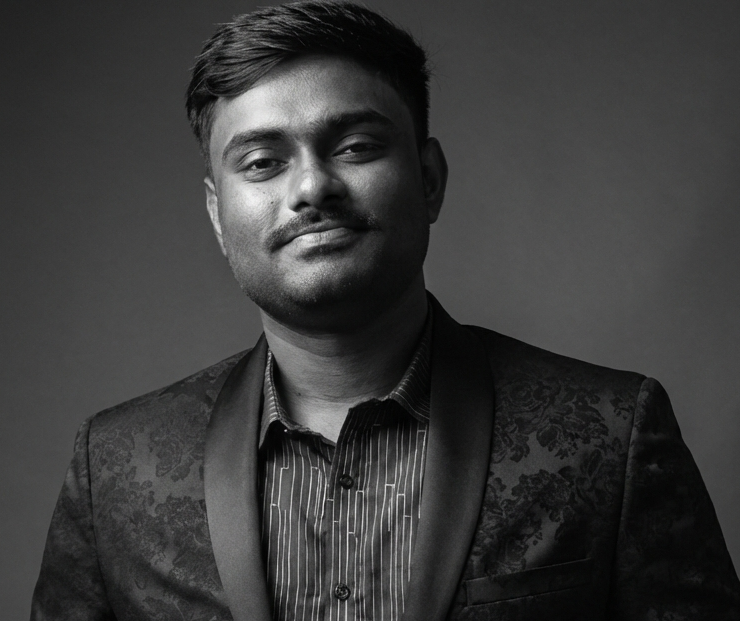
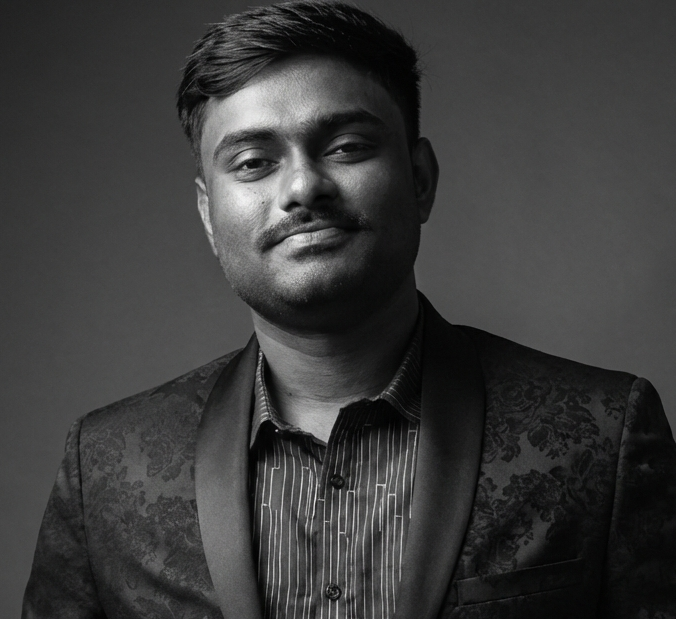
updated styles

diff --git a/index.html b/index.html
@@ -17,17 +17,17 @@
         }
 
         :root {
-            --primary-text: #1d1d1f;
-            --secondary-text: #6e6e73;
-            --accent: #0071e3;
-            --accent-hover: #0077ed;
-            --bg-primary: #ffffff;
-            --bg-secondary: #f5f5f7;
-            --bg-tertiary: #fbfbfd;
-            --border: #d2d2d7;
-            --shadow-sm: 0 2px 8px rgba(0, 0, 0, 0.04);
-            --shadow-md: 0 4px 16px rgba(0, 0, 0, 0.08);
-            --shadow-lg: 0 12px 48px rgba(0, 0, 0, 0.12);
+            --primary-text: #121212;
+            --secondary-text: #5a5a5f;
+            --accent: #e0242a;
+            --accent-hover: #ff3b30;
+            --bg-primary: #f7f8fb;
+            --bg-secondary: #f2f3f7;
+            --bg-tertiary: #eef1f6;
+            --border: #e7e9ee;
+            --shadow-sm: 0 4px 16px rgba(0, 0, 0, 0.04);
+            --shadow-md: 0 10px 30px rgba(0, 0, 0, 0.08);
+            --shadow-lg: 0 24px 72px rgba(0, 0, 0, 0.12);
         }
 
         html {
@@ -38,7 +38,8 @@
 
         body {
             font-family: -apple-system, BlinkMacSystemFont, 'Inter', 'SF Pro Display', 'Segoe UI', Roboto, sans-serif;
-            background: linear-gradient(135deg, #eaf1ff 0%, #f8fbff 50%, #eef2f8 100%);
+            background: radial-gradient(120% 120% at 20% 10%, #ffffff, #f3f5fa 38%, #ecf0f7 52%, #e7ebf4 70%),
+                        radial-gradient(90% 90% at 80% 20%, rgba(224, 36, 42, 0.08), rgba(255, 255, 255, 0));
             color: var(--primary-text);
             line-height: 1.6;
             overflow-x: hidden;
@@ -49,24 +50,24 @@
         body::after {
             content: '';
             position: fixed;
-            width: 720px;
-            height: 720px;
+            width: 520px;
+            height: 520px;
             border-radius: 50%;
-            filter: blur(140px);
-            opacity: 0.35;
+            filter: blur(120px);
+            opacity: 0.22;
             z-index: -1;
         }
 
         body::before {
-            background: radial-gradient(circle at 30% 30%, rgba(0, 113, 227, 0.35), rgba(255, 255, 255, 0));
-            top: -180px;
-            left: -160px;
+            background: radial-gradient(circle at 30% 30%, rgba(224, 36, 42, 0.35), rgba(255, 255, 255, 0));
+            top: -120px;
+            left: -140px;
         }
 
         body::after {
-            background: radial-gradient(circle at 70% 70%, rgba(0, 119, 237, 0.28), rgba(255, 255, 255, 0));
-            bottom: -240px;
-            right: -120px;
+            background: radial-gradient(circle at 70% 70%, rgba(15, 23, 42, 0.28), rgba(255, 255, 255, 0));
+            bottom: -160px;
+            right: -100px;
         }
 
         /* Header */
@@ -152,12 +153,12 @@
             margin: 0 auto;
             padding: 8rem 2rem 6rem;
             text-align: center;
-            background: rgba(255, 255, 255, 0.72);
-            border: 1px solid rgba(255, 255, 255, 0.45);
-            border-radius: 28px;
-            box-shadow: 0 20px 60px rgba(15, 23, 42, 0.12);
-            backdrop-filter: saturate(180%) blur(18px);
-            -webkit-backdrop-filter: saturate(180%) blur(18px);
+            background: linear-gradient(145deg, rgba(255, 255, 255, 0.9), rgba(255, 255, 255, 0.76));
+            border: 1px solid rgba(231, 233, 238, 0.9);
+            border-radius: 26px;
+            box-shadow: 0 16px 48px rgba(15, 23, 42, 0.10);
+            backdrop-filter: saturate(180%) blur(12px);
+            -webkit-backdrop-filter: saturate(180%) blur(12px);
         }
 
         .hero h1 {
@@ -316,14 +317,14 @@
         }
 
         .card {
-            background: rgba(255, 255, 255, 0.72);
+            background: linear-gradient(160deg, rgba(255, 255, 255, 0.92), rgba(250, 250, 252, 0.82));
             border-radius: 18px;
             padding: 2.5rem;
-            box-shadow: 0 18px 48px rgba(15, 23, 42, 0.08);
+            box-shadow: 0 14px 40px rgba(15, 23, 42, 0.10);
             transition: all 0.3s cubic-bezier(0.4, 0, 0.2, 1);
-            border: 1px solid rgba(255, 255, 255, 0.45);
-            backdrop-filter: saturate(180%) blur(18px);
-            -webkit-backdrop-filter: saturate(180%) blur(18px);
+            border: 1px solid rgba(231, 233, 238, 0.9);
+            backdrop-filter: saturate(160%) blur(10px);
+            -webkit-backdrop-filter: saturate(160%) blur(10px);
         }
 
         .card:hover {
@@ -334,7 +335,7 @@
         .card-icon {
             width: 48px;
             height: 48px;
-            background: linear-gradient(135deg, var(--accent) 0%, #0077ed 100%);
+            background: linear-gradient(135deg, var(--accent) 0%, rgba(224, 36, 42, 0.65) 100%);
             border-radius: 12px;
             display: flex;
             align-items: center;
@@ -393,15 +394,15 @@
         }
 
         .timeline-item {
-            background: rgba(255, 255, 255, 0.72);
+            background: linear-gradient(150deg, rgba(255, 255, 255, 0.9), rgba(248, 248, 252, 0.82));
             border-radius: 18px;
             padding: 2.5rem;
             margin-bottom: 1.5rem;
-            box-shadow: 0 18px 48px rgba(15, 23, 42, 0.08);
-            border: 1px solid rgba(255, 255, 255, 0.45);
+            box-shadow: 0 14px 40px rgba(15, 23, 42, 0.10);
+            border: 1px solid rgba(231, 233, 238, 0.9);
             transition: all 0.3s ease;
-            backdrop-filter: saturate(180%) blur(18px);
-            -webkit-backdrop-filter: saturate(180%) blur(18px);
+            backdrop-filter: saturate(160%) blur(10px);
+            -webkit-backdrop-filter: saturate(160%) blur(10px);
         }
 
         .timeline-item:hover {
@@ -434,14 +435,14 @@
 
         /* Projects */
         .project-card {
-            background: rgba(255, 255, 255, 0.75);
+            background: linear-gradient(155deg, rgba(255, 255, 255, 0.94), rgba(249, 249, 252, 0.86));
             border-radius: 18px;
             overflow: hidden;
-            box-shadow: 0 18px 48px rgba(15, 23, 42, 0.08);
-            border: 1px solid rgba(255, 255, 255, 0.45);
+            box-shadow: 0 14px 40px rgba(15, 23, 42, 0.10);
+            border: 1px solid rgba(231, 233, 238, 0.9);
             transition: all 0.3s cubic-bezier(0.4, 0, 0.2, 1);
-            backdrop-filter: saturate(180%) blur(18px);
-            -webkit-backdrop-filter: saturate(180%) blur(18px);
+            backdrop-filter: saturate(160%) blur(10px);
+            -webkit-backdrop-filter: saturate(160%) blur(10px);
         }
 
         .project-card:hover {
@@ -450,7 +451,7 @@
         }
 
         .project-header {
-            background: linear-gradient(135deg, #f5f5f7 0%, #e8e8ed 100%);
+            background: linear-gradient(135deg, #f8f8fb 0%, #fff4f4 100%);
             padding: 3rem 2rem;
             text-align: center;
         }
